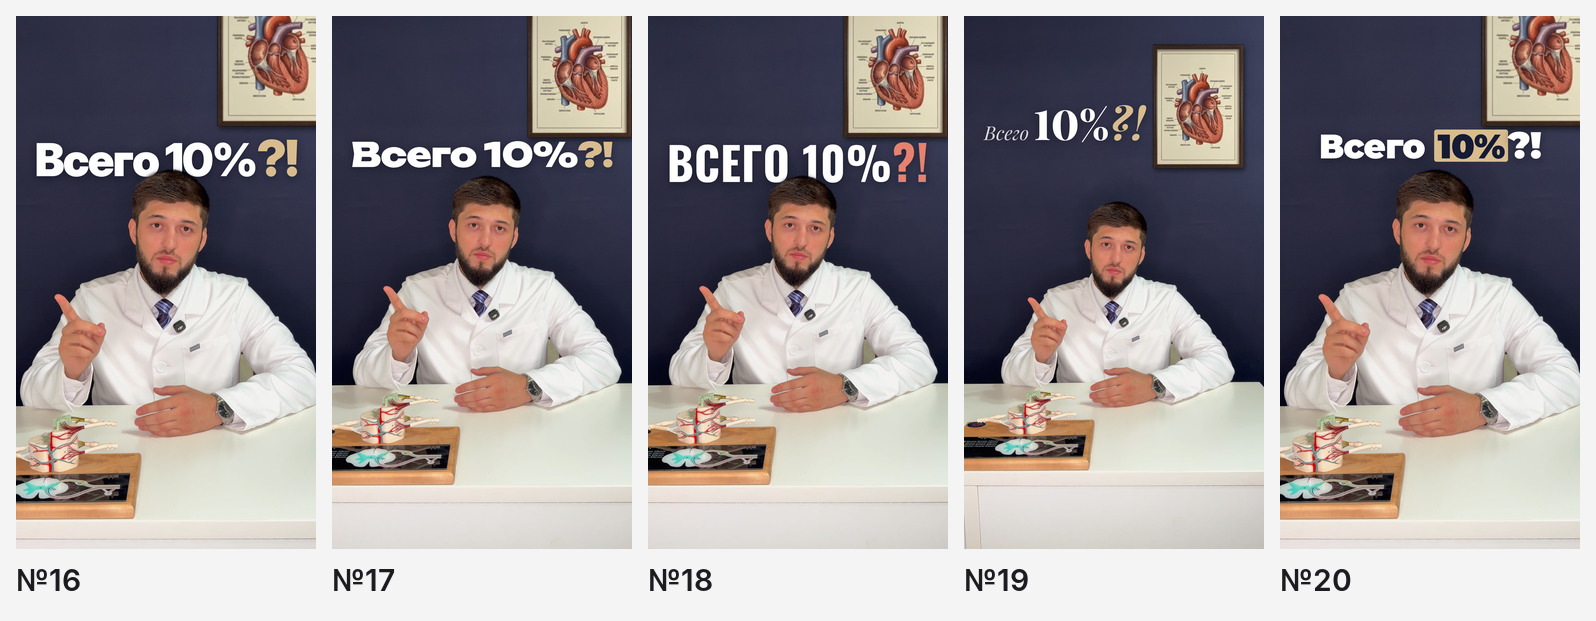
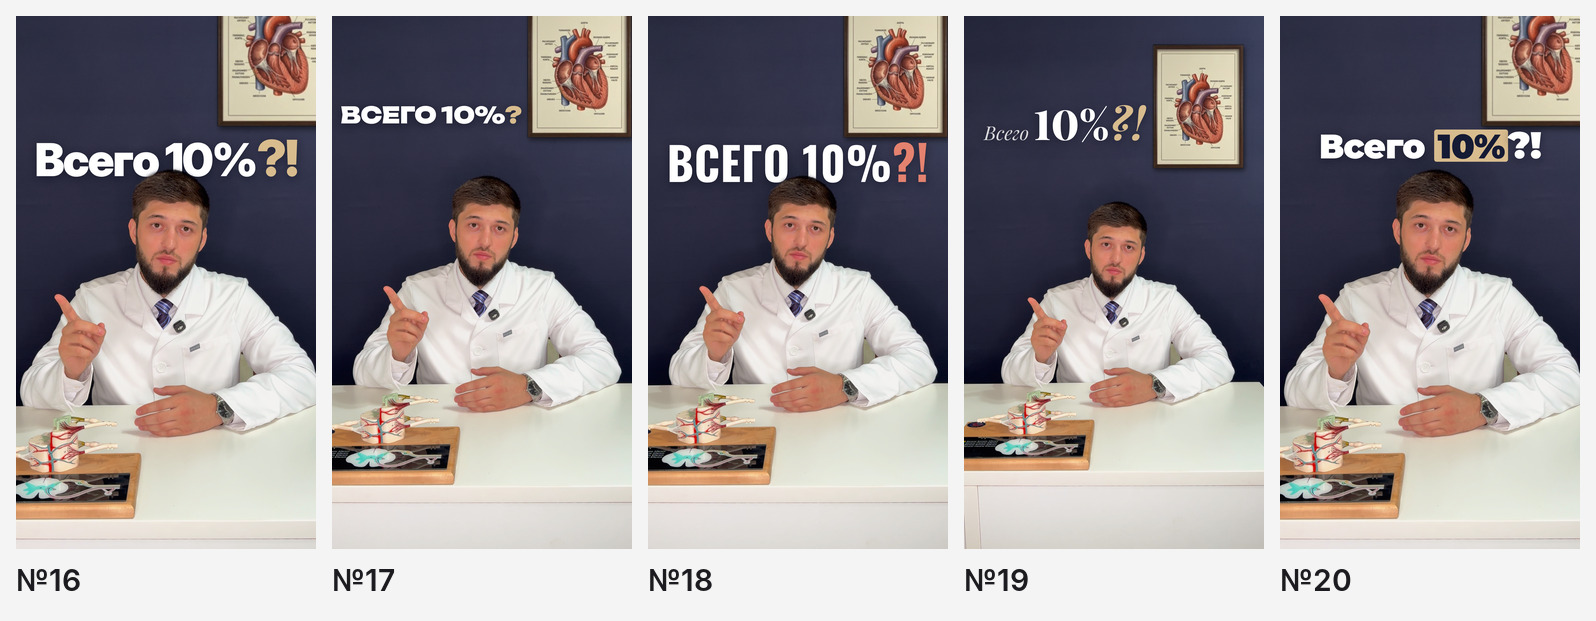
Reel 2 cover 17: "ВСЕГО 10%?" in caps, no "!", placed per client markup
The line now sits left of the heart poster, centred on the height of the
client's green mark (y≈356) and spanning between its two ticks (x≈33–681),
so it no longer runs under the poster. The client's marked screenshot is kept
in reference/. The layout QC allows a 24 px side margin, since the profile
grid does not crop the cover's width.

Claude-Session: https://claude.ai/code/session_01CUeAeRhq8HGUP8vv7VWuP4

Changed region(s): [[0.2149, 0.153, 0.3991, 0.2754]]

diff --git a/doctor-intro-reels/reel_2/covers/cover.html b/doctor-intro-reels/reel_2/covers/cover.html
@@ -108,7 +108,7 @@ const V = {
   16: { z: "c", base: "base2", person: true, behind: `
       <div class="t inter" data-w="944" data-center style="top:421px; font-weight:900; font-size:170px; letter-spacing:-.035em">Всего 10%<span class="acc" style="font-size:1.1em">?!</span></div>` },
   17: { z: "b", base: "base2", front: `
-      <div class="t unb" data-w="944" data-center style="top:438px; font-weight:900; font-size:110px; letter-spacing:-.02em">Всего 10%<span class="acc">?!</span></div>` },
+      <div class="t unb" data-w="652" style="left:30px; top:315px; font-weight:900; font-size:90px; letter-spacing:-.02em">ВСЕГО 10%<span class="acc">?</span></div>` },
   18: { z: "b", base: "base2", person: true, behind: `
       <div class="t osw" data-w="944" data-center style="top:432px; font-weight:700; font-size:180px; letter-spacing:.01em">ВСЕГО 10%<span class="coral" style="font-size:1.06em">?!</span></div>` },
   19: { z: "a", base: "base2", front: `

diff --git a/doctor-intro-reels/reel_2/covers/scripts/qc_text.py b/doctor-intro-reels/reel_2/covers/scripts/qc_text.py
@@ -50,5 +50,5 @@ for path in sorted(glob.glob(os.path.join(folder, "text_*_*.png"))):
         line += f" | до фигуры {d_person[ink].min():4.0f}"
     else:
         line += f" | скрыто фигурой {100 * (ink & person).sum() / ink.sum():4.1f} %"
-    grid_ok = ys.min() >= 262 and ys.max() <= 1500 and xs.min() >= 40 and xs.max() <= 1040
+    grid_ok = ys.min() >= 262 and ys.max() <= 1500 and xs.min() >= 24 and xs.max() <= 1056   # по ширине сетка не режет
     print(line + ("" if grid_ok else "  ⚠ вне безопасной зоны"))

diff --git a/doctor-intro-reels/reel_2/covers/scripts/export.py b/doctor-intro-reels/reel_2/covers/scripts/export.py
@@ -10,7 +10,7 @@ OUT = os.path.join(os.path.dirname(os.path.dirname(os.path.abspath(__file__))), 
 FONT = ImageFont.truetype("/usr/share/fonts/opentype/inter/Inter-SemiBold.otf", 30)
 COLS, TILE_W, GAP, LABEL = 5, 300, 16, 56
 GRID_CROP = (0, 240, 1080, 1680)
-SERIES = {"1-15": range(1, 16), "16-20": range(16, 21)}   # 16–20: «Всего 10%?!» в одну строку
+SERIES = {"1-15": range(1, 16), "16-20": range(16, 21)}   # 16–20: «Всего 10%?!» в одну строку, № 17 — «ВСЕГО 10%?»
 
 
 def sheet(numbers, images, crop, name):

diff --git a/doctor-intro-reels/reel_2/covers/README.md b/doctor-intro-reels/reel_2/covers/README.md
@@ -1,7 +1,7 @@
 # Обложки Reels «Для чего создан мой блог»
 
 **Готовые обложки:** `output/cover_01.jpg` … `output/cover_20.jpg` — 1080×1920 (9:16), JPG 95 %.
-№ 16–20 — вторая серия: «Всего 10%?!» в одну строку. Обзоры каждой серии: `output/_обзор_1-15_…`,
+№ 16–20 — вторая серия: «Всего 10%?!» в одну строку (№ 17 по правкам — «ВСЕГО 10%?»). Обзоры каждой серии: `output/_обзор_1-15_…`,
 `output/_обзор_16-20_…` — обложка целиком (9:16) и как она выглядит в сетке профиля (3:4).
 
 - **Кадр** взят прямо из 4K-исходника, обработка та же, что в ролике (HDR→SDR, картина сердца
@@ -34,7 +34,7 @@
 | 14 | всего / 10%? | Cormorant Garamond за спиной врача, план 1,30× |
 | 15 | Для чего этот блог? | название ролика вопросом |
 | 16 | Всего 10%?! | одна строка во всю ширину за головой, Inter Black, золотые «?!», план 1,30× |
-| 17 | Всего 10%?! | широкий Unbounded, строка целиком между картиной и головой, план 1,15× |
+| 17 | ВСЕГО 10%? | широкий Unbounded заглавными, без «!»; строка слева от картины на уровне её нижней части — по разметке заказчика, план 1,15× |
 | 18 | ВСЕГО 10%?! | узкий Oswald за головой, коралловые «?!», план 1,15× |
 | 19 | Всего 10%?! | антиква: маленькое курсивное «Всего», крупные «10%», золотые «?!»; общий план |
 | 20 | Всего 10%?! | «10%» на золотой плашке, Montserrat, план 1,30× |
